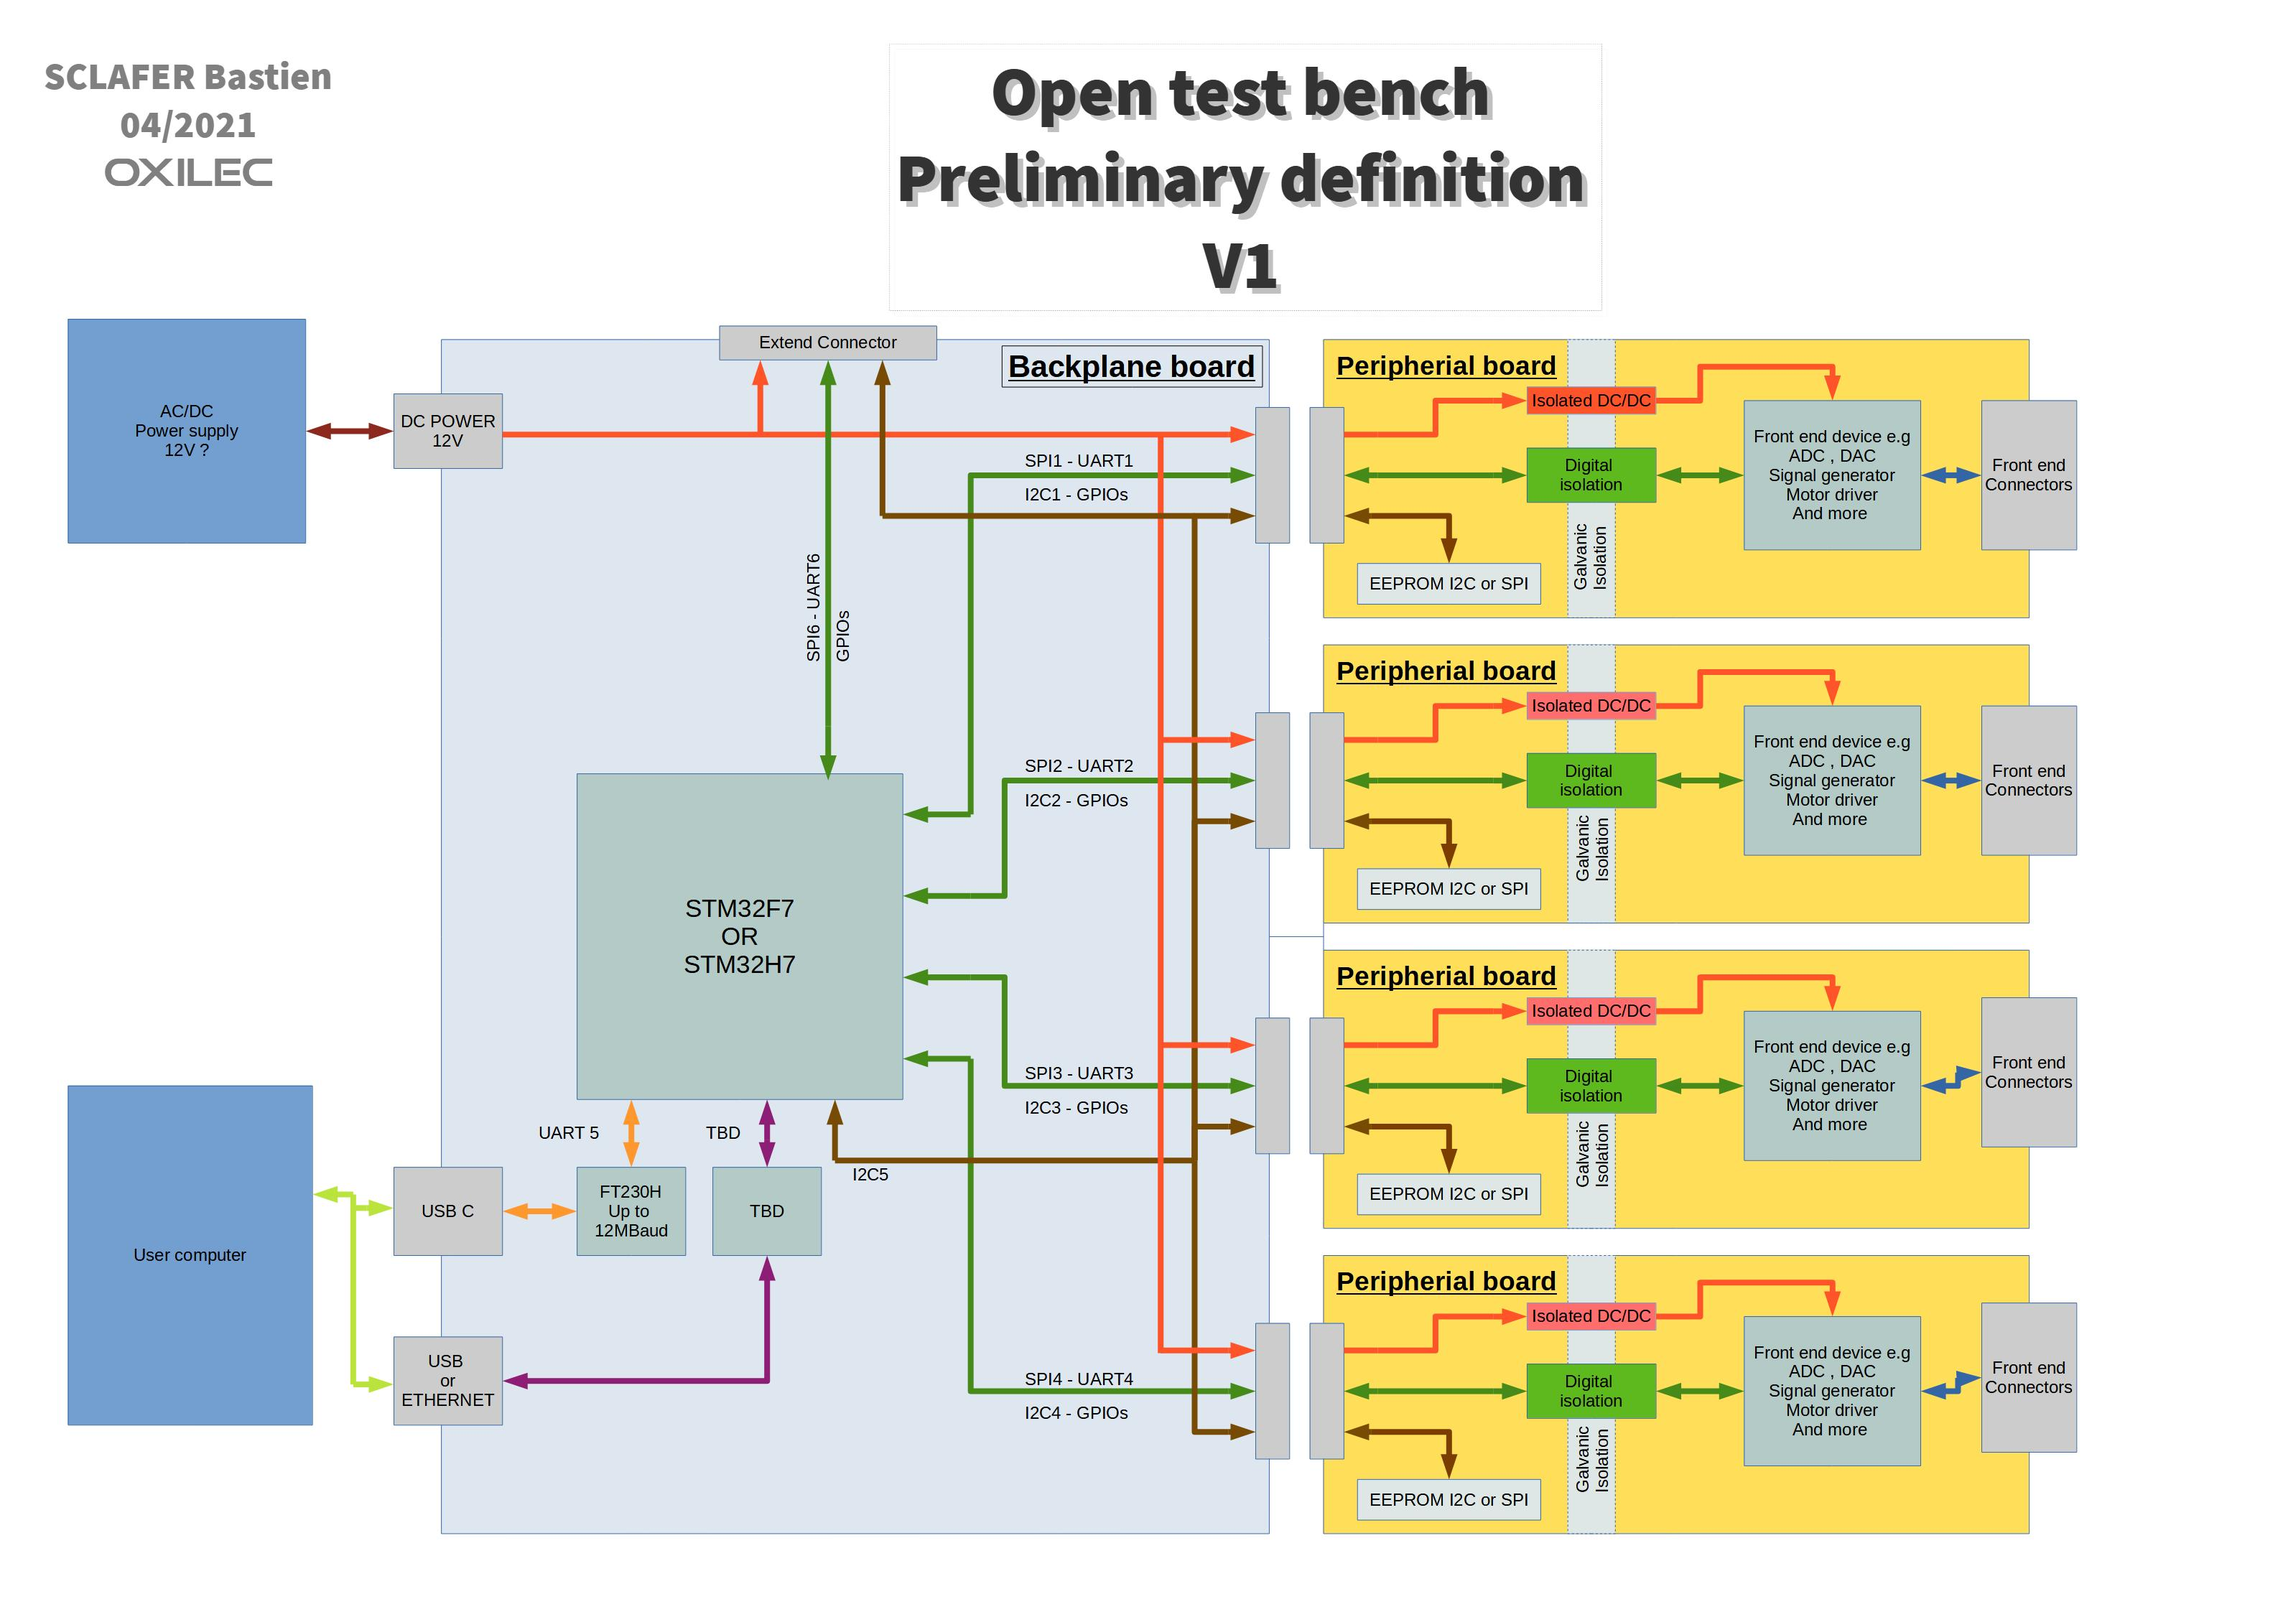
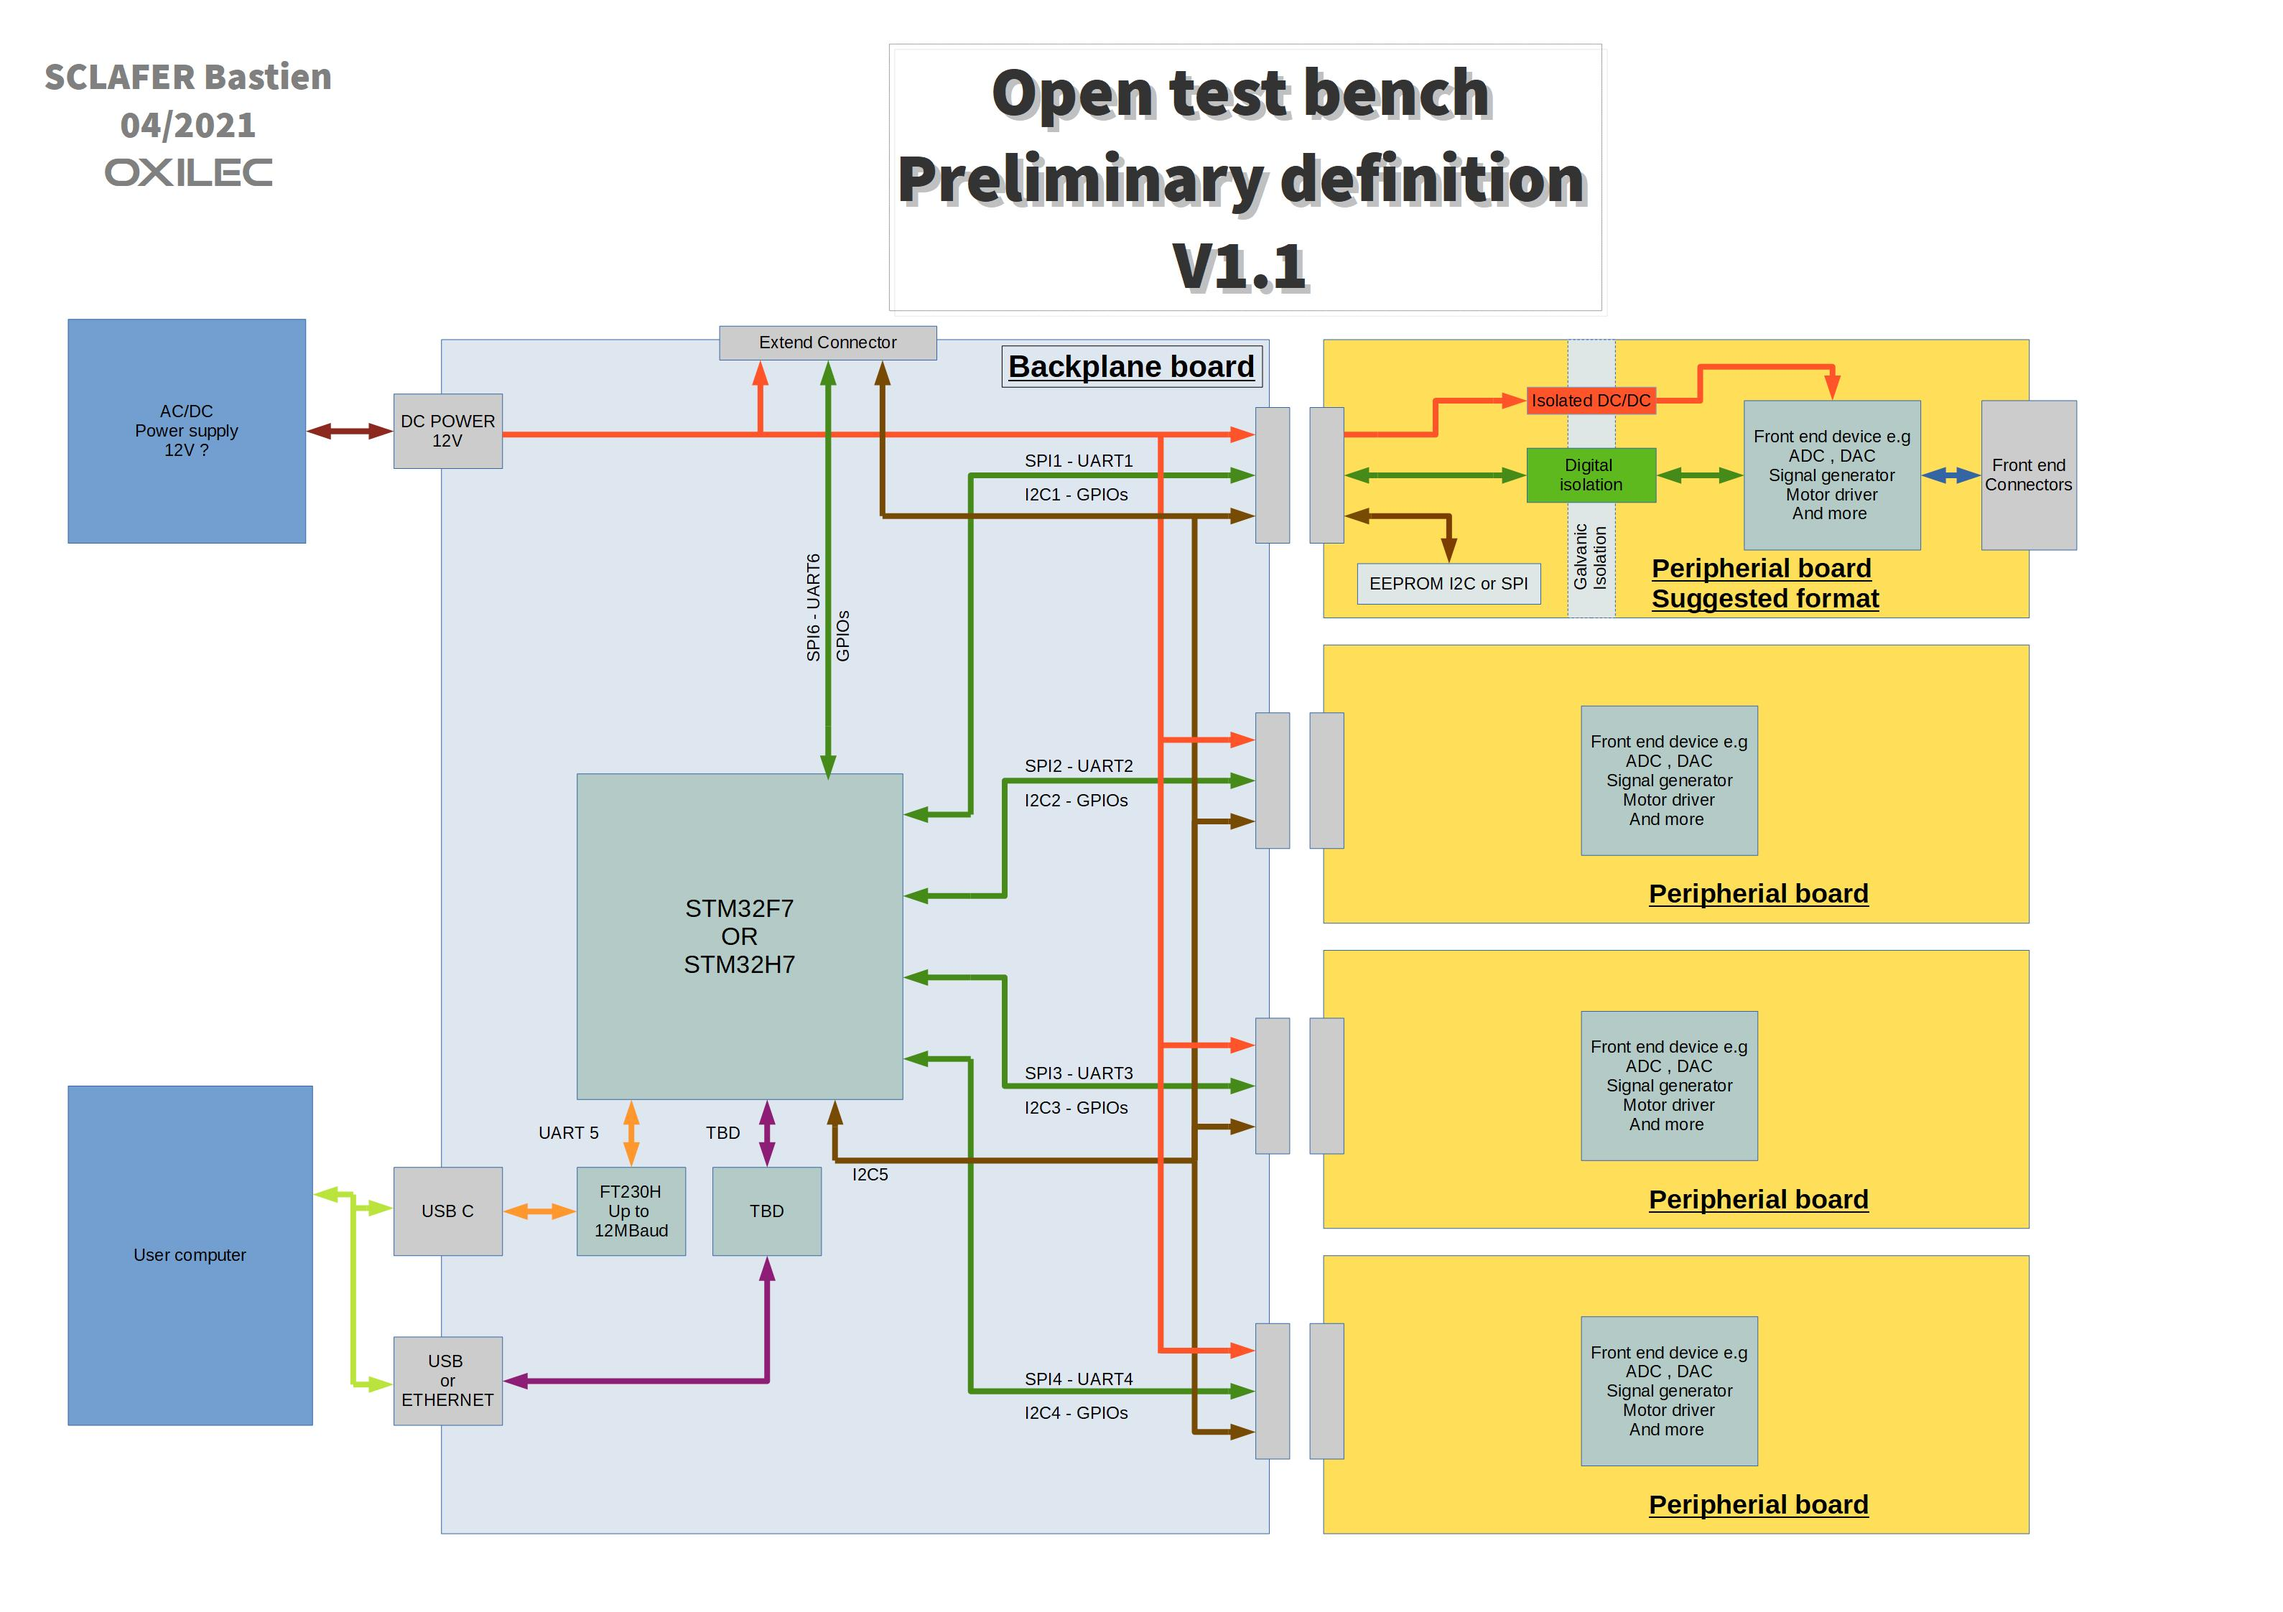
Maj definition

diff --git a/README_fr.md b/README_fr.md
@@ -39,7 +39,7 @@ Chaque module a accès à 4 canaux de communications dédiés et utilise ceux qu
 - Gestion de puissance.
 - ....
 
-#### Chaque module périphérique est construit sur le même format
+#### Format suggeré pour les modules périphériques
 - Isolation galvanique pour simplifier les connexions extérieures.
 - EEPROM pour la sauvegarde d'éventuelles calibrations.
 - Encombrement mécanique (TBD), possibilité d'un double module.

diff --git a/README.md b/README.md
@@ -40,7 +40,7 @@ Each module has an access to 4 communication channels dedicated.
 - Power management.
 - ....
 
-#### Each module is building around the same format
+#### Suggested format of peripheral module
 - Galvanic isolation for simplifying referenced problems.
 - EEPROM for saves needed calibration.
 - Mechanical dimension (TBD), capability of a double module.
